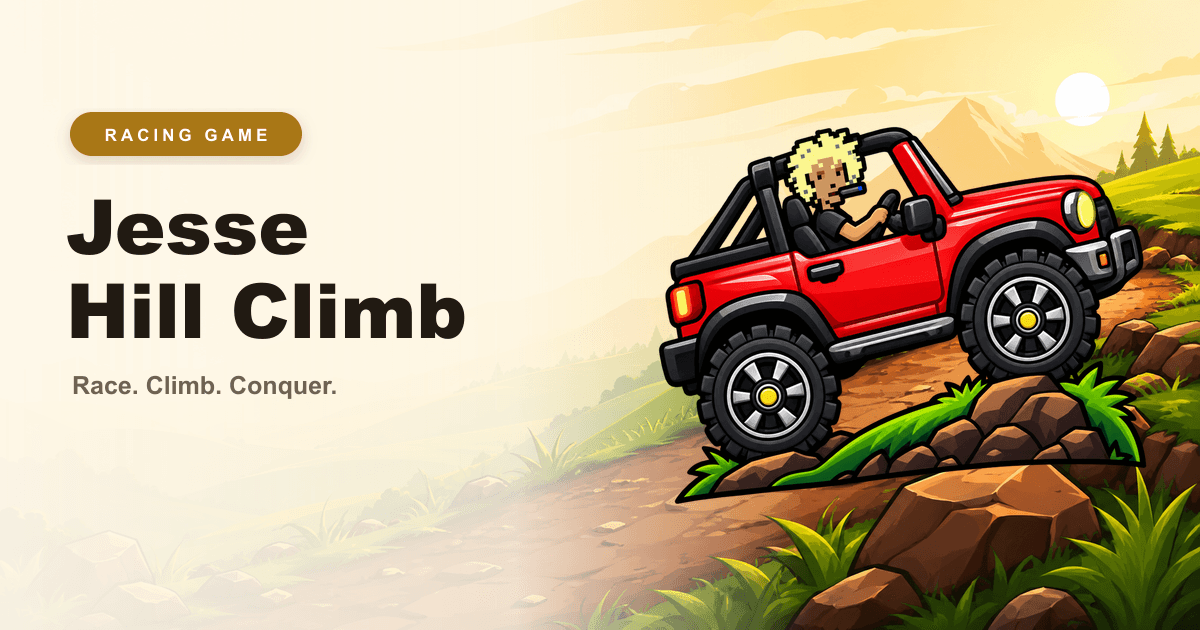
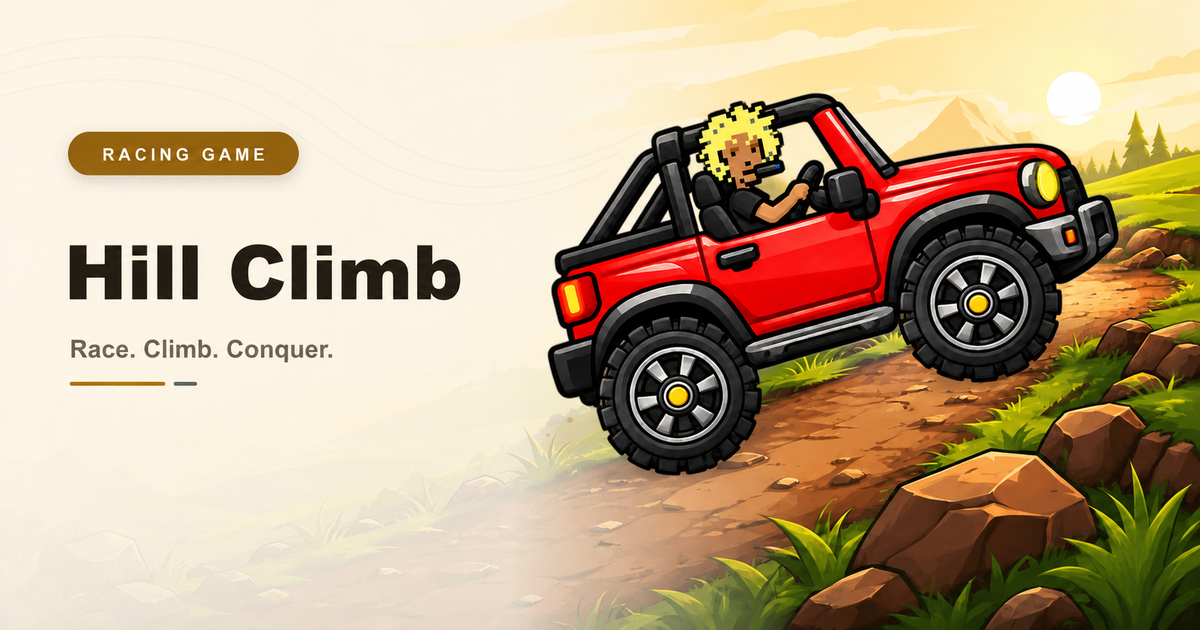
Polish branding and social embed artwork

diff --git a/app/page.tsx b/app/page.tsx
@@ -564,7 +564,7 @@ export default function Page() {
           (virtualLandscape && landscapeSide === "left" ? " landscapeLeft" : "")
         }>
           <div className={"header " + (immersiveMobileUi ? "headerMini" : "")}>
-            <div><div className="titleRow"><img className="brandLogo" src="/icon.png" alt="Jesse Hill Climb logo" /><div className="title">Jesse Hill Climb</div></div></div>
+            <div><div className="titleRow"><img className="brandLogo" src="/assets/branding/logo-header.png" alt="Jesse Hill Climb logo" /><div className="title">Jesse Hill Climb</div></div></div>
             <div className="headerBtns">
               <button className="iconBtn iconBtnPrimary" type="button" onClick={doShare} aria-label="Share"><ShareIcon /></button>
             </div>

diff --git a/app/layout.tsx b/app/layout.tsx
@@ -18,7 +18,7 @@ const URL = process.env.NEXT_PUBLIC_URL || "https://jessehillclimb.online";
 const APP_NAME = process.env.NEXT_PUBLIC_APP_NAME || "Jesse Hill Climb";
 const BASE_APP_ID = (process.env.NEXT_PUBLIC_BASE_APP_ID || "6976213f88e3bac59cf3d818").trim();
 
-const imageUrl = process.env.NEXT_PUBLIC_APP_HERO_IMAGE || `${URL}/embed.png`;
+const imageUrl = process.env.NEXT_PUBLIC_APP_HERO_IMAGE || `${URL}/embed-v3.png`;
 
 export const metadata: Metadata = {
   title: APP_NAME,

diff --git a/components/MainMenu.tsx b/components/MainMenu.tsx
@@ -191,7 +191,7 @@ export function MainMenu({
       {/* ═══ TOP BAR ═══ */}
       <div className="gm-top">
         <div className="gm-brand">
-          <img src="/icon.png" alt="Jesse Hill Climb logo" style={{
+          <img src="/assets/branding/logo-header.png" alt="Jesse Hill Climb logo" style={{
             width: 42, height: 42, objectFit: "contain",
             filter: "drop-shadow(0 3px 5px rgba(92,52,12,.2))",
           }} />

diff --git a/lib/wallet.ts b/lib/wallet.ts
@@ -53,7 +53,7 @@ export async function getWalletConnectProvider(): Promise<Eip1193Provider> {
         name: "Jesse Hill Climb",
         description: "A hill climb racing game on Base",
         url: origin,
-        icons: [`${origin}/icon.png`],
+        icons: [`${origin}/assets/branding/logo-header.png`],
       },
       showQrModal: true,
       optionalChains: [8453],
